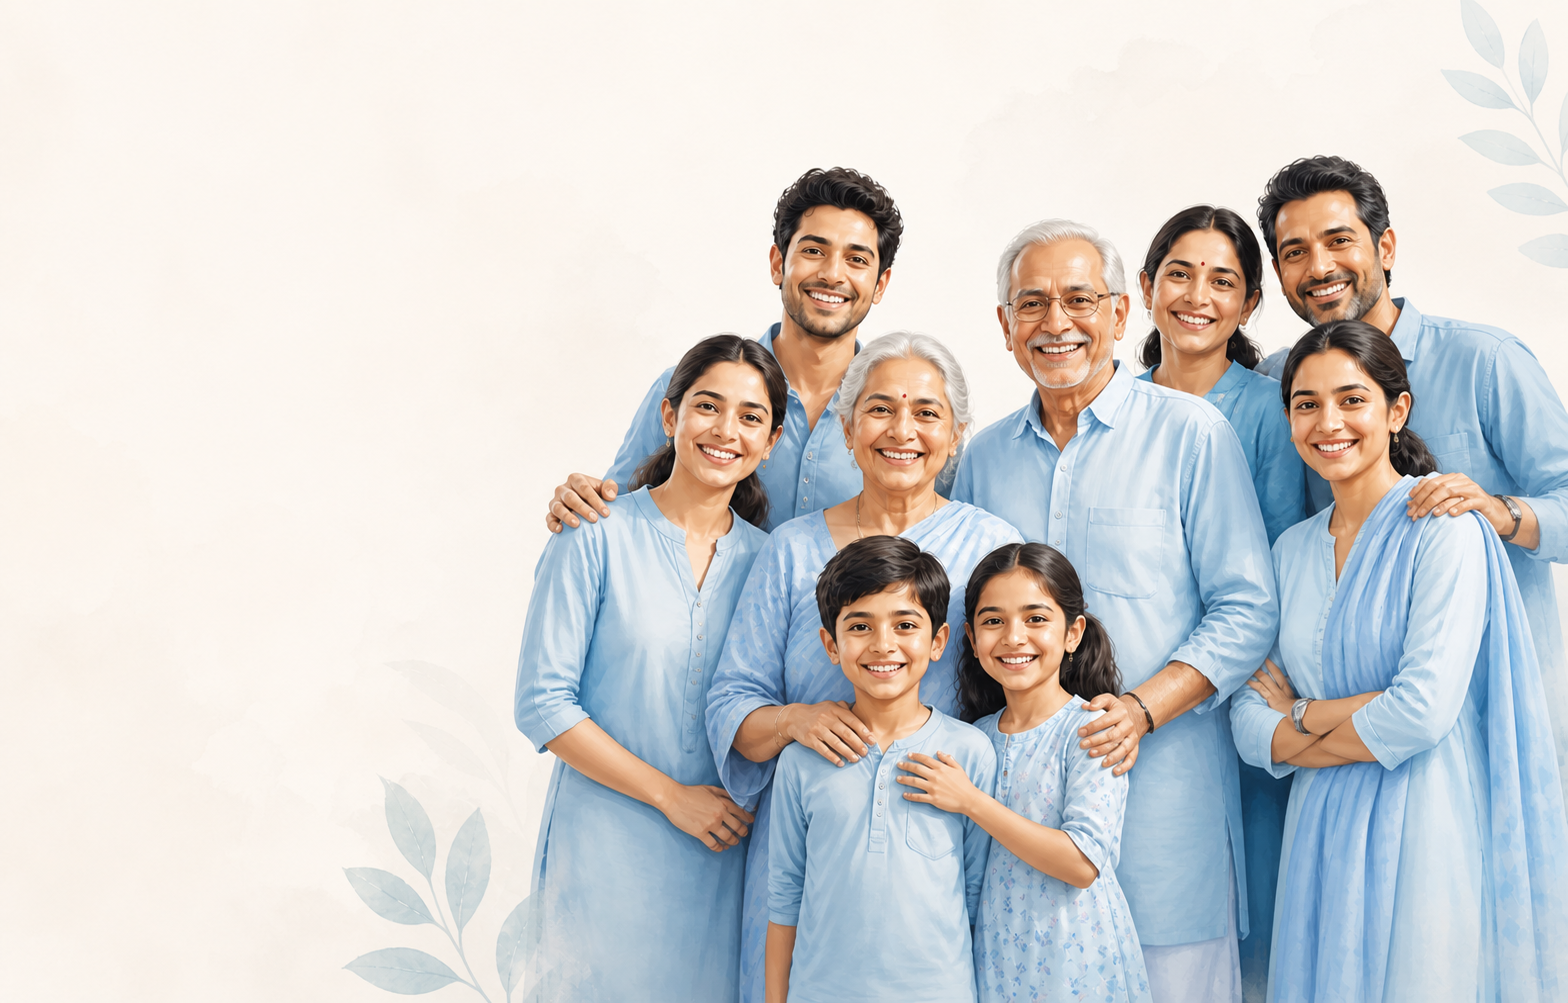
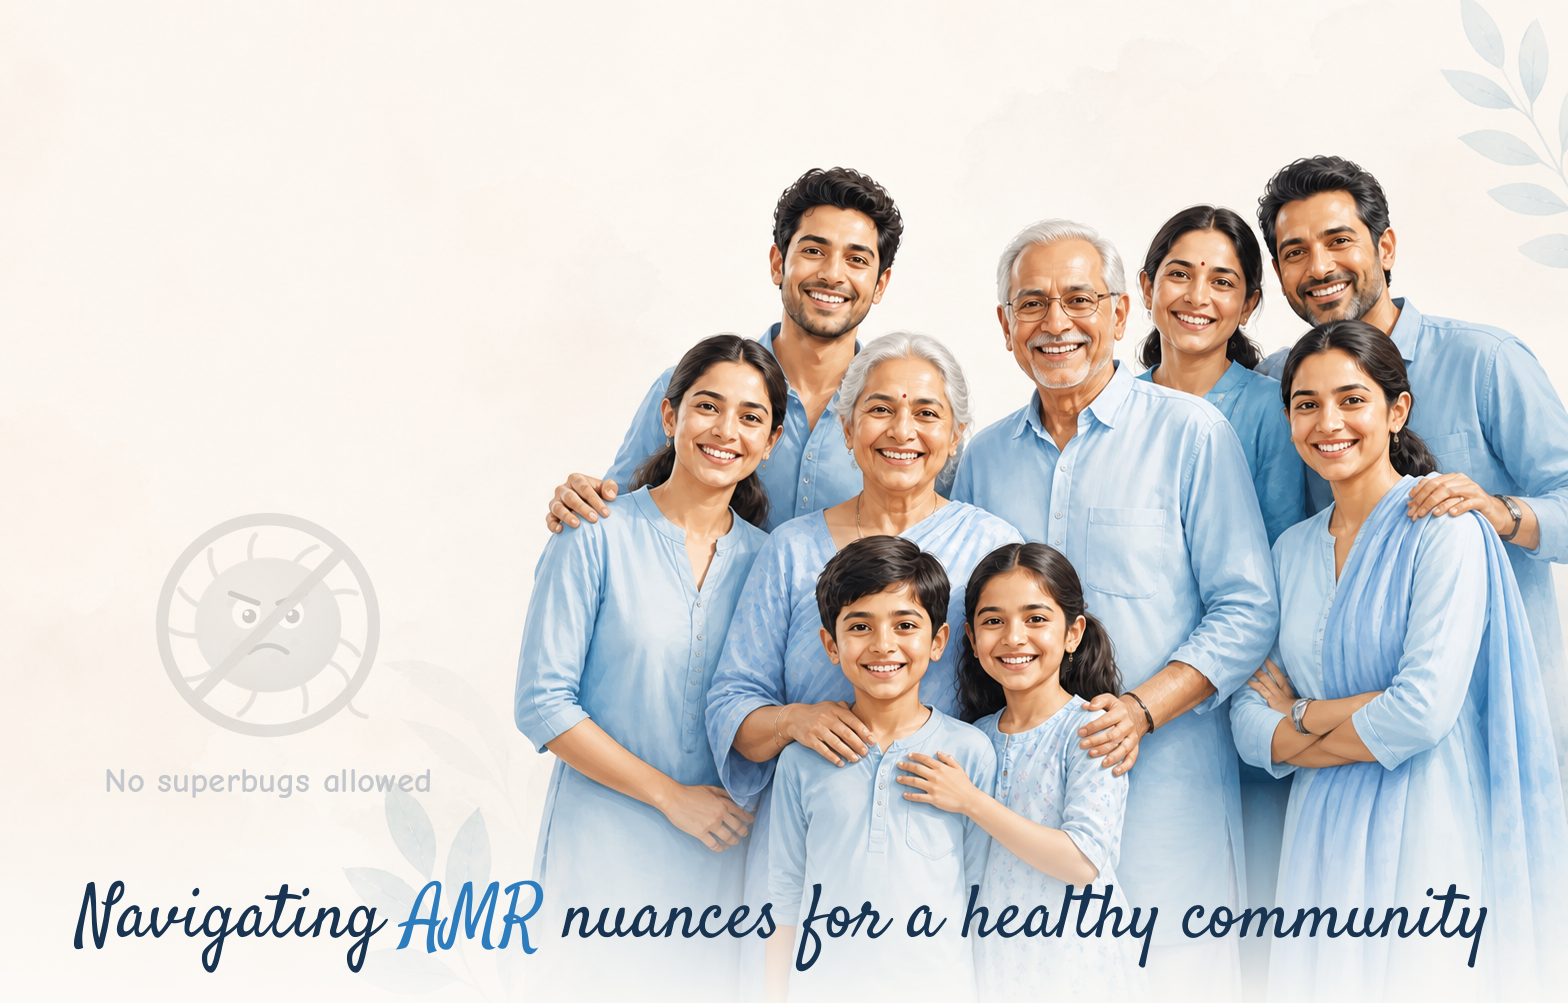
Use finalized community hero image

diff --git a/dist/index.html b/dist/index.html
@@ -312,22 +312,6 @@
       line-height: 1.02;
       letter-spacing: 0;
     }
-    .home-tagline {
-      position: absolute;
-      left: clamp(24px, 5vw, 56px);
-      right: clamp(24px, 5vw, 56px);
-      bottom: clamp(48px, 7vh, 86px);
-      z-index: 2;
-      margin: 0;
-      color: #1f4f7a;
-      font-family: "Comic Sans MS", "Comic Sans", cursive;
-      font-size: clamp(18px, 2.1vw, 30px);
-      line-height: 1.18;
-      font-weight: 760;
-      letter-spacing: 0;
-      text-shadow: 0 2px 16px rgba(255, 255, 255, .76);
-      max-width: 620px;
-    }
     .home-sub {
       margin: 0;
       max-width: 520px;
@@ -430,14 +414,6 @@
       display: flex;
       align-items: center;
       justify-content: center;
-    }
-    .home-visual::after {
-      content: "";
-      position: absolute;
-      inset: auto 0 0;
-      height: 30%;
-      background: linear-gradient(180deg, transparent, rgba(255,255,255,.38));
-      pointer-events: none;
     }
     .home-visual img {
       width: 100%;
@@ -1336,10 +1312,6 @@
       .home-visual,
       .home-visual img { min-height: calc(100vh - 112px); border-radius: 0; }
       .home-visual { border-radius: 0; }
-      .home-tagline {
-        bottom: 48px;
-        font-size: clamp(17px, 2.9vw, 24px);
-      }
       .home-followup { grid-template-columns: 1fr; gap: 6px; margin-top: 14px; padding-top: 12px; }
       .home-note { min-height: auto; padding: 10px; }
       .quick-grid, .priority-layout { grid-template-columns: 1fr; }
@@ -1365,7 +1337,6 @@
       .home-option p { display: none; }
       .home-option-tag { font-size: 8px; letter-spacing: .06em; }
       .home-option-arrow { width: 22px; height: 22px; font-size: 11px; }
-      .home-tagline { left: 14px; right: 14px; bottom: 24px; font-size: 13px; }
       .home-followup { display: none; }
       .home-option { align-items: flex-start; }
       .home-option-top { align-self: flex-start; }
@@ -1491,7 +1462,6 @@
               </div>
               <div class="home-visual" aria-label="Healthy community illustration">
                 <img src="assets/community-hero.png" alt="Smiling multi-generational community">
-                <p class="home-tagline">Navigating AMR nuances for a healthy community</p>
               </div>
             </div>
           </section>

diff --git a/index.html b/index.html
@@ -312,22 +312,6 @@
       line-height: 1.02;
       letter-spacing: 0;
     }
-    .home-tagline {
-      position: absolute;
-      left: clamp(24px, 5vw, 56px);
-      right: clamp(24px, 5vw, 56px);
-      bottom: clamp(48px, 7vh, 86px);
-      z-index: 2;
-      margin: 0;
-      color: #1f4f7a;
-      font-family: "Comic Sans MS", "Comic Sans", cursive;
-      font-size: clamp(18px, 2.1vw, 30px);
-      line-height: 1.18;
-      font-weight: 760;
-      letter-spacing: 0;
-      text-shadow: 0 2px 16px rgba(255, 255, 255, .76);
-      max-width: 620px;
-    }
     .home-sub {
       margin: 0;
       max-width: 520px;
@@ -430,14 +414,6 @@
       display: flex;
       align-items: center;
       justify-content: center;
-    }
-    .home-visual::after {
-      content: "";
-      position: absolute;
-      inset: auto 0 0;
-      height: 30%;
-      background: linear-gradient(180deg, transparent, rgba(255,255,255,.38));
-      pointer-events: none;
     }
     .home-visual img {
       width: 100%;
@@ -1336,10 +1312,6 @@
       .home-visual,
       .home-visual img { min-height: calc(100vh - 112px); border-radius: 0; }
       .home-visual { border-radius: 0; }
-      .home-tagline {
-        bottom: 48px;
-        font-size: clamp(17px, 2.9vw, 24px);
-      }
       .home-followup { grid-template-columns: 1fr; gap: 6px; margin-top: 14px; padding-top: 12px; }
       .home-note { min-height: auto; padding: 10px; }
       .quick-grid, .priority-layout { grid-template-columns: 1fr; }
@@ -1365,7 +1337,6 @@
       .home-option p { display: none; }
       .home-option-tag { font-size: 8px; letter-spacing: .06em; }
       .home-option-arrow { width: 22px; height: 22px; font-size: 11px; }
-      .home-tagline { left: 14px; right: 14px; bottom: 24px; font-size: 13px; }
       .home-followup { display: none; }
       .home-option { align-items: flex-start; }
       .home-option-top { align-self: flex-start; }
@@ -1491,7 +1462,6 @@
               </div>
               <div class="home-visual" aria-label="Healthy community illustration">
                 <img src="assets/community-hero.png" alt="Smiling multi-generational community">
-                <p class="home-tagline">Navigating AMR nuances for a healthy community</p>
               </div>
             </div>
           </section>
